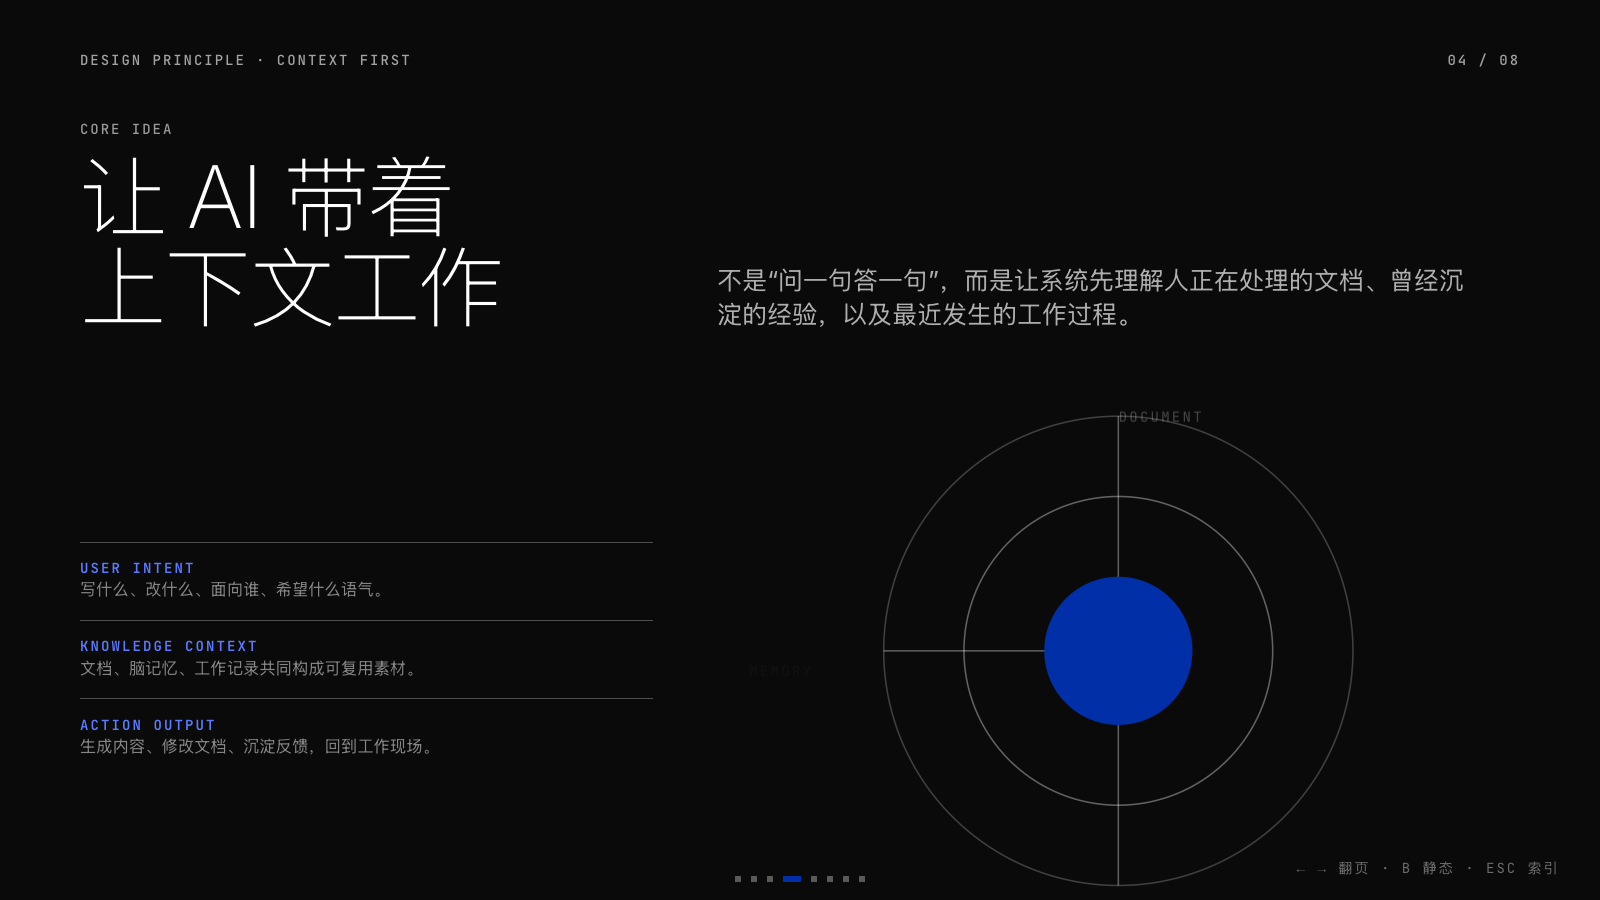
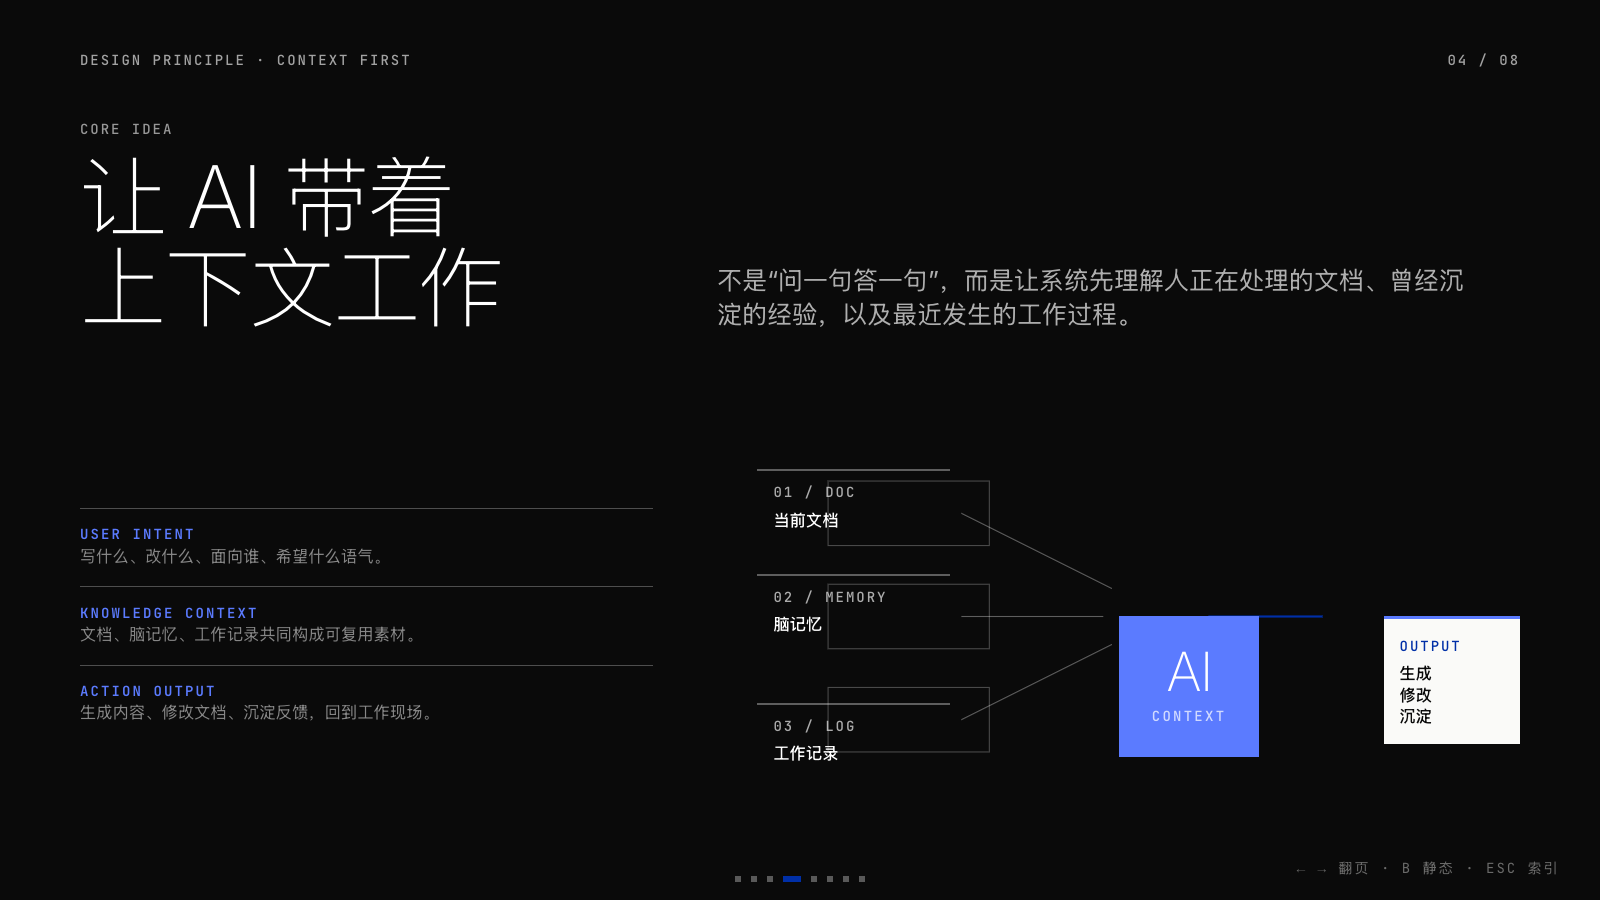
Improve AI competition deck diagrams

diff --git a/ai-competition-ppt/index.html b/ai-competition-ppt/index.html
@@ -1346,19 +1346,36 @@
             <p class="body-sm" style="color:rgba(255,255,255,.72)">生成内容、修改文档、沉淀反馈，回到工作现场。</p>
           </div>
         </div>
-        <div style="position:relative;min-height:43vh;display:flex;align-items:center;justify-content:center">
-          <svg viewBox="0 0 520 360" width="100%" height="100%" aria-hidden="true">
-            <circle cx="260" cy="180" r="152" fill="none" stroke="rgba(255,255,255,.22)" stroke-width="1"/>
-            <circle cx="260" cy="180" r="100" fill="none" stroke="rgba(255,255,255,.36)" stroke-width="1"/>
-            <circle cx="260" cy="180" r="48" fill="var(--accent)" opacity=".98"/>
-            <line x1="260" y1="28" x2="260" y2="132" stroke="rgba(255,255,255,.34)" stroke-width="1"/>
-            <line x1="108" y1="180" x2="212" y2="180" stroke="rgba(255,255,255,.34)" stroke-width="1"/>
-            <line x1="260" y1="228" x2="260" y2="332" stroke="rgba(255,255,255,.34)" stroke-width="1"/>
+        <div style="position:relative;min-height:43vh;display:grid;place-items:center">
+          <svg viewBox="0 0 620 360" width="100%" height="100%" aria-hidden="true" style="position:absolute;inset:0">
+            <line x1="164" y1="84" x2="304" y2="154" stroke="rgba(255,255,255,.34)" stroke-width="1"/>
+            <line x1="164" y1="180" x2="296" y2="180" stroke="rgba(255,255,255,.34)" stroke-width="1"/>
+            <line x1="164" y1="276" x2="304" y2="206" stroke="rgba(255,255,255,.34)" stroke-width="1"/>
+            <line x1="394" y1="180" x2="500" y2="180" stroke="var(--accent)" stroke-width="2"/>
+            <rect x="40" y="54" width="150" height="60" fill="none" stroke="rgba(255,255,255,.26)" stroke-width="1"/>
+            <rect x="40" y="150" width="150" height="60" fill="none" stroke="rgba(255,255,255,.26)" stroke-width="1"/>
+            <rect x="40" y="246" width="150" height="60" fill="none" stroke="rgba(255,255,255,.26)" stroke-width="1"/>
           </svg>
-          <div style="position:absolute;top:3vh;left:50%;transform:translateX(-50%);font-family:var(--mono);font-size:14px;letter-spacing:.16em;color:rgba(255,255,255,.64)">DOCUMENT</div>
-          <div style="position:absolute;left:2vw;top:50%;transform:translateY(-50%);font-family:var(--mono);font-size:14px;letter-spacing:.16em;color:rgba(255,255,255,.64)">MEMORY</div>
-          <div style="position:absolute;bottom:3vh;left:50%;transform:translateX(-50%);font-family:var(--mono);font-size:14px;letter-spacing:.16em;color:rgba(255,255,255,.64)">WORK LOG</div>
-          <div style="position:absolute;left:50%;top:50%;transform:translate(-50%,-50%);font-family:var(--sans),var(--sans-zh);font-size:max(18px,1.35vw);font-weight:500;color:#fff">AI</div>
+          <div style="position:absolute;z-index:1;left:5%;top:12%;width:24%;padding:1.2vh 1vw;border-top:2px solid rgba(255,255,255,.34)">
+            <div class="t-meta" style="color:rgba(255,255,255,.66)">01 / DOC</div>
+            <div style="margin-top:.7vh;font-family:var(--sans),var(--sans-zh);font-size:max(16px,1vw);font-weight:500;color:#fff">当前文档</div>
+          </div>
+          <div style="position:absolute;z-index:1;left:5%;top:39%;width:24%;padding:1.2vh 1vw;border-top:2px solid rgba(255,255,255,.34)">
+            <div class="t-meta" style="color:rgba(255,255,255,.66)">02 / MEMORY</div>
+            <div style="margin-top:.7vh;font-family:var(--sans),var(--sans-zh);font-size:max(16px,1vw);font-weight:500;color:#fff">脑记忆</div>
+          </div>
+          <div style="position:absolute;z-index:1;left:5%;bottom:9%;width:24%;padding:1.2vh 1vw;border-top:2px solid rgba(255,255,255,.34)">
+            <div class="t-meta" style="color:rgba(255,255,255,.66)">03 / LOG</div>
+            <div style="margin-top:.7vh;font-family:var(--sans),var(--sans-zh);font-size:max(16px,1vw);font-weight:500;color:#fff">工作记录</div>
+          </div>
+          <div style="position:absolute;z-index:1;left:50%;top:50%;transform:translate(-50%,-50%);width:8.8vw;height:8.8vw;min-width:118px;min-height:118px;background:var(--accent-bright);display:flex;flex-direction:column;align-items:center;justify-content:center;color:#fff">
+            <div style="font-family:var(--sans);font-size:min(3.4vw,6vh);font-weight:200;line-height:.9;letter-spacing:-.035em">AI</div>
+            <div class="t-meta" style="margin-top:1vh;color:rgba(255,255,255,.72);letter-spacing:.16em">CONTEXT</div>
+          </div>
+          <div style="position:absolute;z-index:1;right:0;top:50%;transform:translateY(-50%);width:17%;padding:1.8vh 1vw;background:var(--paper);color:var(--ink);border-top:3px solid var(--accent-bright)">
+            <div class="t-meta" style="color:var(--accent)">OUTPUT</div>
+            <div style="margin-top:.8vh;font-family:var(--sans),var(--sans-zh);font-size:max(16px,1vw);font-weight:500;color:var(--text-primary);line-height:1.35">生成<br/>修改<br/>沉淀</div>
+          </div>
         </div>
       </div>
     </div>
@@ -1395,28 +1412,39 @@
             <div><h3 class="h-md" style="font-size:max(22px,1.8vw)">人来定稿</h3><p class="body-sm">保留人的判断，反馈再进入下一轮迭代。</p></div>
           </div>
         </div>
-        <div style="position:relative;min-height:44vh;display:flex;align-items:center;justify-content:center">
-          <svg viewBox="0 0 520 360" width="100%" height="100%" aria-hidden="true">
+        <div style="position:relative;min-height:44vh;display:grid;place-items:center">
+          <svg viewBox="0 0 560 360" width="100%" height="100%" aria-hidden="true" style="position:absolute;inset:0">
             <defs>
               <marker id="arrow-ai-loop" markerWidth="8" markerHeight="8" refX="6" refY="3" orient="auto">
                 <path d="M0,0 L6,3 L0,6" fill="var(--accent)"></path>
               </marker>
             </defs>
-            <circle cx="260" cy="180" r="118" fill="none" stroke="var(--accent)" stroke-width="2"/>
-            <path d="M260 62 A118 118 0 0 1 378 180" fill="none" stroke="var(--accent)" stroke-width="2" marker-end="url(#arrow-ai-loop)"/>
-            <path d="M378 180 A118 118 0 0 1 260 298" fill="none" stroke="var(--accent)" stroke-width="2" marker-end="url(#arrow-ai-loop)"/>
-            <path d="M260 298 A118 118 0 0 1 142 180" fill="none" stroke="var(--accent)" stroke-width="2" marker-end="url(#arrow-ai-loop)"/>
-            <path d="M142 180 A118 118 0 0 1 260 62" fill="none" stroke="var(--accent)" stroke-width="2" marker-end="url(#arrow-ai-loop)"/>
-            <circle cx="260" cy="62" r="12" fill="var(--ink)"/>
-            <circle cx="378" cy="180" r="12" fill="var(--ink)"/>
-            <circle cx="260" cy="298" r="12" fill="var(--ink)"/>
-            <circle cx="142" cy="180" r="12" fill="var(--ink)"/>
+            <path d="M180 78 H380 V160" fill="none" stroke="var(--accent)" stroke-width="2" marker-end="url(#arrow-ai-loop)"/>
+            <path d="M426 180 V282 H304" fill="none" stroke="var(--accent)" stroke-width="2" marker-end="url(#arrow-ai-loop)"/>
+            <path d="M280 282 H112 V202" fill="none" stroke="var(--accent)" stroke-width="2" marker-end="url(#arrow-ai-loop)"/>
+            <path d="M112 180 V78 H156" fill="none" stroke="var(--accent)" stroke-width="2" marker-end="url(#arrow-ai-loop)"/>
+            <circle cx="168" cy="78" r="7" fill="var(--ink)"/>
+            <circle cx="426" cy="180" r="7" fill="var(--ink)"/>
+            <circle cx="292" cy="282" r="7" fill="var(--ink)"/>
+            <circle cx="112" cy="190" r="7" fill="var(--ink)"/>
           </svg>
-          <div style="position:absolute;top:0;left:50%;transform:translateX(-50%);font-family:var(--mono);font-size:14px;letter-spacing:.16em;color:var(--text-helper)">GOAL</div>
-          <div style="position:absolute;right:2vw;top:50%;transform:translateY(-50%);font-family:var(--mono);font-size:14px;letter-spacing:.16em;color:var(--text-helper)">CONTEXT</div>
-          <div style="position:absolute;bottom:0;left:50%;transform:translateX(-50%);font-family:var(--mono);font-size:14px;letter-spacing:.16em;color:var(--text-helper)">DRAFT</div>
-          <div style="position:absolute;left:2vw;top:50%;transform:translateY(-50%);font-family:var(--mono);font-size:14px;letter-spacing:.16em;color:var(--text-helper)">REVIEW</div>
-          <div style="position:absolute;left:50%;top:50%;transform:translate(-50%,-50%);font-family:var(--sans),var(--sans-zh);font-weight:200;font-size:min(4.8vw,8.5vh);letter-spacing:-.035em">LOOP</div>
+          <div class="card-fill" style="position:absolute;left:8%;top:3%;width:27%;padding:1.8vh 1.3vw;border-top:3px solid var(--accent)">
+            <div class="t-meta" style="color:var(--accent)">01 / GOAL</div>
+            <div style="margin-top:.8vh;font-family:var(--sans),var(--sans-zh);font-size:max(17px,1.15vw);font-weight:500;color:var(--text-primary)">明确目标</div>
+          </div>
+          <div class="card-fill" style="position:absolute;right:4%;top:35%;width:28%;padding:1.8vh 1.3vw;border-top:3px solid var(--accent)">
+            <div class="t-meta" style="color:var(--accent)">02 / CONTEXT</div>
+            <div style="margin-top:.8vh;font-family:var(--sans),var(--sans-zh);font-size:max(17px,1.15vw);font-weight:500;color:var(--text-primary)">选择素材</div>
+          </div>
+          <div class="card-fill" style="position:absolute;left:35%;bottom:2%;width:28%;padding:1.8vh 1.3vw;border-top:3px solid var(--accent)">
+            <div class="t-meta" style="color:var(--accent)">03 / DRAFT</div>
+            <div style="margin-top:.8vh;font-family:var(--sans),var(--sans-zh);font-size:max(17px,1.15vw);font-weight:500;color:var(--text-primary)">生成草稿</div>
+          </div>
+          <div class="card-fill" style="position:absolute;left:0;top:43%;width:27%;padding:1.8vh 1.3vw;border-top:3px solid var(--ink)">
+            <div class="t-meta">04 / REVIEW</div>
+            <div style="margin-top:.8vh;font-family:var(--sans),var(--sans-zh);font-size:max(17px,1.15vw);font-weight:500;color:var(--text-primary)">人来定稿</div>
+          </div>
+          <div style="position:absolute;left:50%;top:50%;transform:translate(-50%,-50%);background:var(--ink);color:var(--paper);width:8.2vw;height:8.2vw;min-width:108px;min-height:108px;display:flex;align-items:center;justify-content:center;font-family:var(--sans);font-weight:200;font-size:min(3.2vw,5.6vh);letter-spacing:-.035em">LOOP</div>
         </div>
       </div>
     </div>
